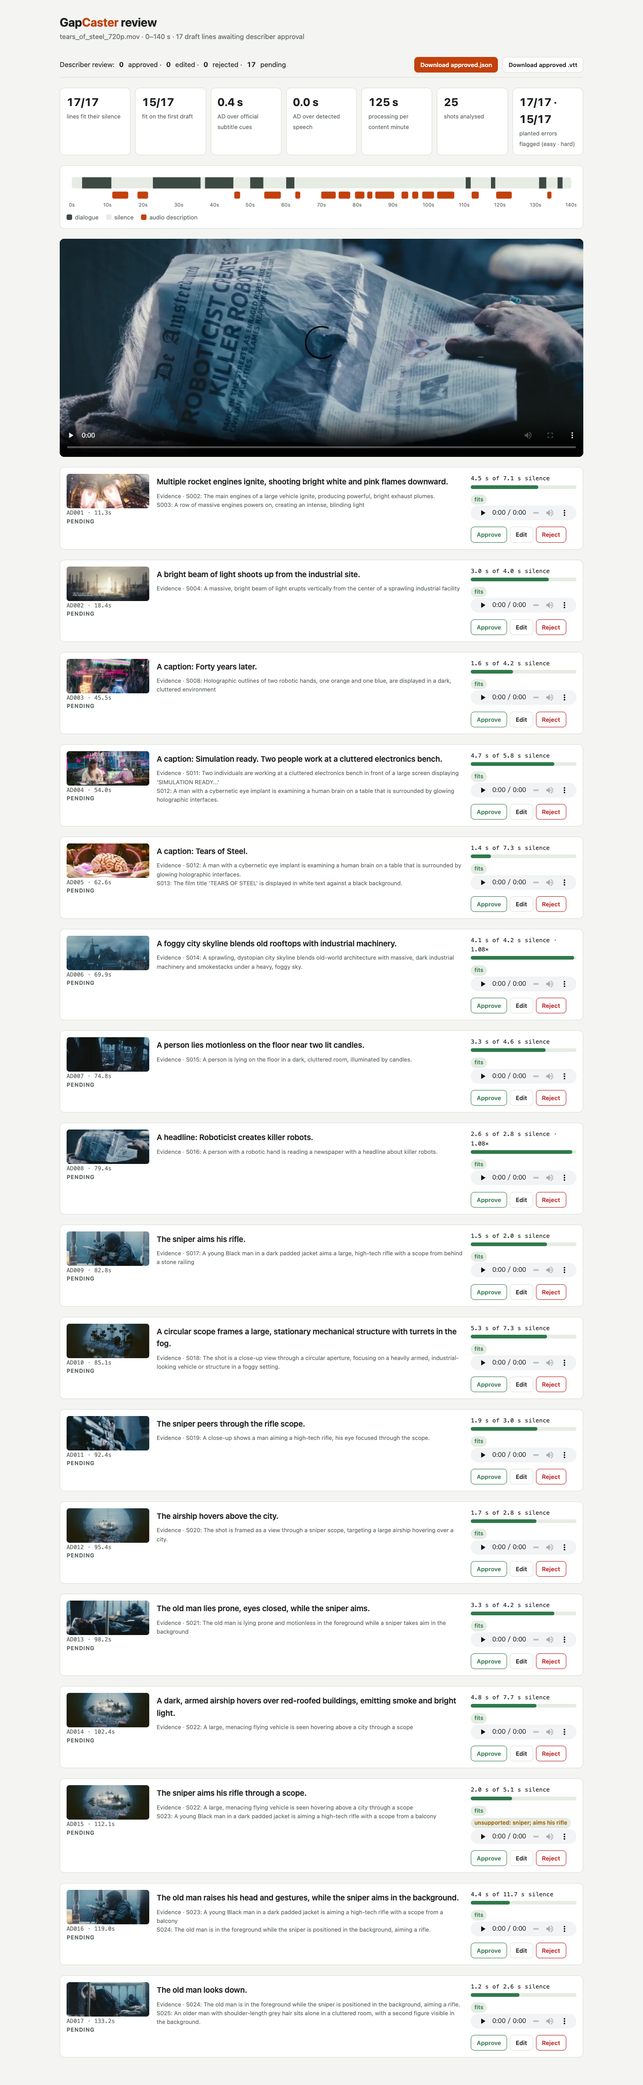
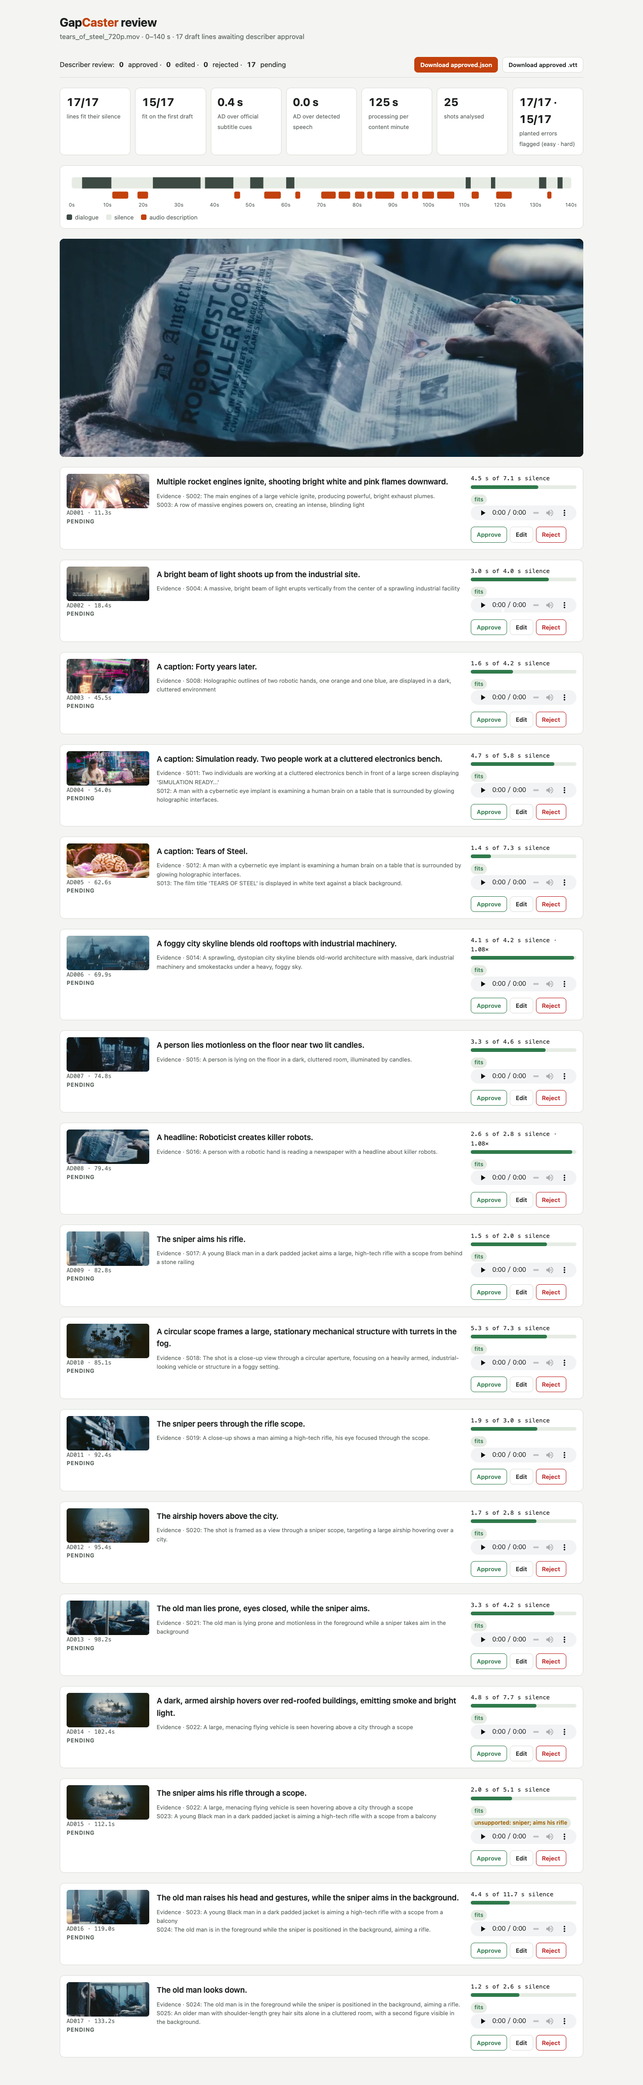
README: honest labels, install and fetch steps, known limitations, AI-assistance note
- results labelled in-sample and tied to tag stage1-results
- frame check labelled AI-assisted; verifier rows renamed; footnotes corrected
- quick start: hardware and disk needs, film and subtitle download, export command, XPU PyTorch
- credits: CC BY 3.0 licence link, score credit, espeak-ng note corrected
- hero image cropped to the review page header; review page rebuilt with the fixed UI

Changed region(s): [[0.0921, 0.1863, 0.7679, 0.2174]]

diff --git a/samples/tears-of-steel-0-140/review.html b/samples/tears-of-steel-0-140/review.html
@@ -36,7 +36,7 @@ button.ok{border-color:var(--ok);color:var(--ok)}button.no{border-color:#b91c1c;
 .state{font-size:12px;font-weight:700;text-transform:uppercase;letter-spacing:.06em;color:var(--muted)}
 .txt[contenteditable=true]{outline:2px dashed var(--ad);outline-offset:4px;border-radius:4px}
 @media (max-width:820px){.line{grid-template-columns:1fr}}
-</style><body data-run="tears_of_steel_720p.mov:0-140"><div class=wrap>
+</style><body data-run="tears_of_steel_720p.mov:0-140:12c44591be4f"><div class=wrap>
 <div><h1>Gap<span>Caster</span> review</h1><div class=sub>tears_of_steel_720p.mov · 0–140 s · 17 draft lines awaiting describer approval</div></div>
 <div class=bar2><span>Describer review:</span> <b id=n-approved>0</b> approved · <b id=n-edited>0</b> edited · <b id=n-rejected>0</b> rejected · <b id=n-pending>0</b> pending <span style="flex:1"></span><button class=primary id=dl-json>Download approved.json</button><button id=dl-vtt>Download approved .vtt</button></div>
 <div class=kpis><div class=kpi><b>17/17</b><small>lines fit their silence</small></div><div class=kpi><b>15/17</b><small>fit on the first draft</small></div><div class=kpi><b>0.4 s</b><small>AD over official subtitle cues</small></div><div class=kpi><b>0.0 s</b><small>AD over detected speech</small></div><div class=kpi><b>125 s</b><small>processing per content minute</small></div><div class=kpi><b>25</b><small>shots analysed</small></div><div class=kpi><b>17/17 · 15/17</b><small>planted errors flagged (easy · hard)</small></div></div>
@@ -101,14 +101,16 @@ function paint(){let c={approved:0,edited:0,rejected:0,pending:0};
  document.querySelectorAll('.line').forEach(el=>{const id=el.dataset.id,s=st[id];const state=s?s.status:'pending';el.dataset.state=state;
   el.querySelector('.state').textContent=state;if(s&&s.text)el.querySelector('.txt').textContent=s.text;c[state]++;});
  for(const k in c)document.getElementById('n-'+k).textContent=c[k];}
+function finishEdit(el){const t=el.querySelector('.txt');if(t.isContentEditable){t.contentEditable=false;el.querySelector('button[data-act=edit]').textContent='Edit';}return t.textContent.trim();}
 document.addEventListener('click',e=>{const b=e.target.closest('button[data-act]');if(!b)return;const el=b.closest('.line'),id=el.dataset.id,t=el.querySelector('.txt');
- if(b.dataset.act==='approve'){st[id]={status:'approved',text:t.textContent.trim()};}
- if(b.dataset.act==='reject'){st[id]={status:'rejected',text:t.textContent.trim()};}
+ if(b.dataset.act==='approve'){const nt=finishEdit(el);st[id]={status:nt===el.dataset.orig?'approved':'edited',text:nt};}
+ if(b.dataset.act==='reject'){st[id]={status:'rejected',text:finishEdit(el)};}
  if(b.dataset.act==='edit'){if(t.isContentEditable){t.contentEditable=false;b.textContent='Edit';const orig=el.dataset.orig;const nt=t.textContent.trim();st[id]={status:nt===orig?'approved':'edited',text:nt};}
   else{t.contentEditable=true;t.focus();b.textContent='Save';return;}}
  save();paint();});
 function download(name,data,type){const a=document.createElement('a');a.href=URL.createObjectURL(new Blob([data],{type}));a.download=name;a.click();}
-document.getElementById('dl-json').onclick=()=>{const lines=[...document.querySelectorAll('.line')].map(el=>({id:el.dataset.id,status:(st[el.dataset.id]||{}).status||'pending',text:(st[el.dataset.id]||{}).text||el.dataset.orig}));
+document.getElementById('dl-json').onclick=()=>{document.querySelectorAll('.line').forEach(el=>{if(el.querySelector('.txt').isContentEditable)el.querySelector('button[data-act=edit]').click();});
+ const lines=[...document.querySelectorAll('.line')].map(el=>({id:el.dataset.id,status:(st[el.dataset.id]||{}).status||'pending',original:el.dataset.orig,text:(st[el.dataset.id]||{}).text||el.dataset.orig}));
  download('approved.json',JSON.stringify({run:document.body.dataset.run,lines},null,1),'application/json');};
 document.getElementById('dl-vtt').onclick=()=>{let v='WEBVTT\nKind: descriptions\n\n';document.querySelectorAll('.line').forEach(el=>{const s=st[el.dataset.id];if(!s||s.status==='rejected'||s.status==='pending')return;
  v+=el.dataset.id+'\n'+el.dataset.a+' --> '+el.dataset.b+'\n'+s.text+'\n\n';});download('approved.vtt',v,'text/vtt');};

diff --git a/README.md b/README.md
@@ -2,15 +2,15 @@
 
 **Offline audio description that fits the silences.**
 
-GapCaster drafts an audio-description (AD) track for a finished video. It finds every silence between lines of dialogue, writes narration sized for each one, speaks it, measures it, and rewrites it until it fits. Every line comes with the evidence behind it, and a human describer approves the result. Everything runs locally on open models.
+GapCaster drafts an audio-description (AD) track for a finished video. It finds the silences between lines of dialogue, writes narration sized for each one, speaks it, measures it, and speeds it up slightly or rewrites it until it fits. Every line comes with the evidence behind it, and a human describer approves the result. Everything runs locally on open models.
 
-![GapCaster review page](docs/review.png)
+![GapCaster review page: KPIs and timeline](docs/review_top.png)
 
-Built for the **ASUS UGen AI League 2026** · Theme: Creator AI · Battlefield Thunderstorm. The Stage I prototype runs on a laptop; the Stage II target is one **ASUS UGen Intel Arc Pro B70 (32 GB)**.
+Built for the **ASUS UGen AI League 2026** · Theme: Creator AI · Battlefield Thunderstorm. The Stage I prototype runs on a laptop; the Stage II target is one **ASUS UGen Intel Arc Pro B70 (32 GB)**. Built by Ted Chen with AI coding assistance (Claude, Anthropic).
 
 ## Results (Stage I, laptop prototype)
 
-Measured on an Apple M5 Max laptop, not on a B70 yet. Demo content: *Tears of Steel* (Blender Foundation, CC BY 3.0).
+Measured on an Apple M5 Max laptop, not on a B70 yet. Demo content: *Tears of Steel* (Blender Foundation, CC BY 3.0). This film was also the development film: the prompts, filters and thresholds were tuned on it, so every number below is in-sample; a held-out film is a Stage II measurement. The numbers were produced by the code at tag [`stage1-results`](https://github.com/tedinroc/gapcaster/tree/stage1-results); later commits fix issues found in an audit (see Known limitations) and have not been re-measured yet.
 
 | Tears of Steel | 0:00–2:20 | Full film |
 |---|---:|---:|
@@ -20,19 +20,20 @@ Measured on an Apple M5 Max laptop, not on a B70 yet. Demo content: *Tears of St
 | …first draft · speed ladder · length rewrite · style rewrite | 15 · 2 · 0 · 0 | 60 · 2 · 5 · 3 |
 | **Narration over official subtitle cues¹** | **0.4 s** | **5.8 s** |
 | Narration over detected speech (internal check) | 0.0 s | 0.0 s |
-| **Manual frame check: accurate · minor · wrong²** | **13 · 4 · 0** | — |
-| Verifier: easy planted errors flagged³ | 17/17 | 40/40 |
-| Verifier: hard in-film errors flagged³ | 15/17 | 34/40 |
-| Verifier false alarms on clean lines | 1/17 | 5/40 |
+| **AI-assisted frame check: accurate · minor · wrong²** | **13 · 4 · 0** | — |
+| Verifier: obvious planted errors flagged³ | 17/17 | 40/40 |
+| Verifier: in-film word/character swaps flagged³ | 15/17 | 34/40 |
+| Verifier flags on unmodified lines⁵ | 1/17 | 5/40 |
 | Processing per content minute | 125 s | 137 s |
 | Peak model memory | 33 GB | 34 GB |
 
-¹ The film's official subtitles are an independent reference. Cues are rounded to whole or half seconds and stay on screen after a line ends, so most of the overlap sits at cue tails. In the full film about 1.4 s falls in cues where neither detector heard speech (short shouts under loud music).
-² Every excerpt line compared with the frame at its midpoint: [`eval/spotcheck_tears_of_steel_0-140.csv`](eval/spotcheck_tears_of_steel_0-140.csv).
-³ Easy: an absurd detail appended to a finished line, or a character swapped. Hard: a noun, verb or character borrowed from another shot of the same film, or the line written for a neighbouring silence. The verifier checks each line against the facts of the shots on screen while it plays; perception errors already in those facts are left to the cast sheet and the human reviewer.
-⁴ Every spoken line fits its silence. The one unplaced line in the full film reads an on-screen quote containing "we"; the first-person rule held it back for the describer (full-film script in [`samples/tears-of-steel-full`](samples/tears-of-steel-full)).
+¹ The film's official subtitles are an independent reference. Cues are rounded to whole or half seconds and stay on screen after a line ends, so part of the overlap sits at cue tails; in the full film about 1.4 s falls in cues where neither detector heard speech (short shouts under loud music), and one shout of about 0.8 s was only partly detected.
+² Each excerpt line was compared with the frame at its midpoint by the AI assistant, one frame per line: [`eval/spotcheck_tears_of_steel_0-140.csv`](eval/spotcheck_tears_of_steel_0-140.csv). Human describer review is part of Stage II.
+³ Obvious: an absurd detail appended to a finished line, or a character swapped. In-film: a noun, verb or character borrowed from another shot of the same film, or the line written for a neighbouring silence. The substitutes never appear in the shot facts, so these are still easier than real perception errors. The verifier checks each line against the facts of the shots on screen while it plays; perception errors already in those facts are left to the cast sheet and the human reviewer. The full-film rows cover the first 40 placed lines.
+⁴ Every spoken line fits its silence. The one unplaced line in the full film read an on-screen quote containing "we", and the first-person rule wrongly held it back (a false positive since fixed: on-screen text read verbatim is now exempt).
+⁵ The verifier's own flags on lines nobody corrupted. They are not all false alarms: the excerpt's single flag (AD015) is a real minor error in the frame check.
 
-Sample outputs from the 140-second run are in [`samples/tears-of-steel-0-140`](samples/tears-of-steel-0-140): the description script ([`ad_script.txt`](samples/tears-of-steel-0-140/ad_script.txt)), a WebVTT `kind="descriptions"` track, SRT, the full JSON script with provenance, and the review page.
+Sample outputs from the 140-second run are in [`samples/tears-of-steel-0-140`](samples/tears-of-steel-0-140): the description script ([`ad_script.txt`](samples/tears-of-steel-0-140/ad_script.txt)), a WebVTT `kind="descriptions"` track, SRT, the full JSON script with provenance, the review page ([`review.html`](samples/tears-of-steel-0-140/review.html), full screenshot [`docs/review.png`](docs/review.png)) and the mixed clip. The full film's script is in [`samples/tears-of-steel-full`](samples/tears-of-steel-full).
 
 ## How it works
 
@@ -45,51 +46,72 @@ flowchart LR
   D --> G
   S --> F[Vision-language model<br/>shot facts as JSON]
   C[Cast sheet<br/>from the describer] --> F
-  G --> W[Writer<br/>one line per silence]
+  G --> W[Writer<br/>narration per silence]
   F --> W
   W --> L{Gap-fit loop<br/>speak, measure, rewrite}
   L --> Q[Style gate<br/>and verifier]
-  Q --> M[Mixer<br/>sidechain ducking]
+  Q --> M[Mixer<br/>soundtrack ducked under the voice]
   M --> O[AD track, WebVTT, SRT,<br/>JSON script, review page]
   O --> H[Describer approves]
 ```
 
-1. **Map the silences.** Two independent detectors: Whisper word timestamps (low-confidence shouts are kept; only known Whisper artefacts such as repetition loops are dropped) and Silero VAD. A moment counts as dialogue if either hears speech; pauses under 0.6 s stay inside a span. A silence is usable from 0.25 s after a line ends to 0.30 s before the next starts. Long silences are split at shot cuts.
-2. **Read every shot.** A vision-language model returns JSON facts for each shot: who, where, action, on-screen text, the key visual fact and a confidence score. A short cast sheet written by the describer keeps names consistent; each entry can carry a `named_from` time, and before it the person is described by look, as AD guidelines advise.
-3. **Write to budget.** One line per silence, with a word budget of ⌊silence × 2.6 words/s⌋ (3 to 18 words). The writer sees only the shots on screen during the silence. Unread story text (title cards, headlines), including text from the shot that just cut away, is queued and must be read; credits and logos never are.
+1. **Map the silences.** Two independent detectors: Whisper word timestamps (low-confidence shouts are kept; only known Whisper artefacts such as repetition loops are dropped) and Silero VAD. A moment counts as dialogue if either hears speech; pauses under 0.6 s stay inside a span. A silence is usable from 0.25 s after a line ends to 0.30 s before the next starts. Long silences are split at shot cuts, and a silence can stay empty when nothing new is on screen, as AD guidelines advise.
+2. **Read every shot.** A vision-language model returns JSON facts for each shot: who, where, action, on-screen text, the key visual fact and a confidence score. A short cast sheet written by the describer keeps names consistent; each entry can carry a `named_from` time, and before it the person is described by look.
+3. **Write to budget.** Narration for each window, with a word budget of ⌊window × 2.6 words/s⌋ (3 to 18 words). Unread story text (title cards, headlines), including text from the shot that just cut away, is queued for the writer, and a draft that ignores it gets one forced rewrite. A pattern list keeps studio cards, credits and web addresses out of the narration.
 4. **Gap-fit loop.** Kokoro TTS speaks the line and the trimmed audio gives its real duration. If it overflows, the line is tried at 1.08× and 1.15× speed, then the writer is told the exact overflow and asked for a shorter line (up to three rounds).
-5. **Style gate.** Deterministic rules from professional AD practice block camera language ("we see"), speculation ("seems", "maybe") and first person, and flag inner-state or evaluative words. Lines that repeat the last two are dropped.
-6. **Verify, review, mix.** A verifier checks each line against the facts of the shots on screen while it plays and flags unsupported claims. ffmpeg mixes the narration over the programme with sidechain ducking. On the review page the describer approves, edits or rejects each line; `gapcaster export --approved approved.json` re-mixes only approved lines and re-times edited ones.
+5. **Style gate.** Deterministic rules from professional AD practice block camera language ("we see"), speculation ("seems", "maybe") and first person, and flag inner-state words, evaluative words and similes. On-screen text read verbatim is exempt. Lines that repeat the last two are dropped.
+6. **Verify, review, mix.** A verifier checks each line against the facts of the shots on screen while it plays and flags unsupported claims (no verdict is also flagged). ffmpeg mixes the narration in, with the soundtrack ducked under the voice. On the review page the describer approves, edits or rejects each line; `gapcaster export <run_dir> --approved approved.json` re-mixes only approved lines and re-times edited ones.
+
+A real case from the 140-second run (`AD008`, silence of 2.75 s, budget 7 words): *A headline: Roboticist creates killer robots.* is 2.78 s at normal speed, so it is tried at 1.08× and fits at 2.64 s.
+
+And the style gate at work in the full film (`AD001`): *A caption: Blender Foundation Presents.* is blocked (credits) and redrafted as *White text on black background.* (1.66 s, fits).
 
 ## Quick start
 
-Requirements: Python 3.11+, `ffmpeg` on PATH. The Stage I backend needs Apple Silicon (MLX).
+Requirements: an Apple Silicon Mac with at least 48 GB of unified memory (64 GB recommended; peak use is about 34 GB), about 35 GB of free disk (the first run downloads about 31 GB of models), Python 3.11–3.13, [uv](https://docs.astral.sh/uv/) and `ffmpeg` on PATH. You can inspect the sample outputs without any models: open `samples/tears-of-steel-0-140/review.html`.
 
 ```bash
 uv venv --python 3.11 && source .venv/bin/activate
 uv pip install -e ".[mac]"
 
-gapcaster run film.mp4 --out runs/demo --cast configs/cast_tears_of_steel.yaml \
-  --start 0 --end 140 --ref-srt subtitles.srt --inject 20
+# the demo film and its official subtitles (subtitles are used only for evaluation)
+curl -LO https://download.blender.org/demo/movies/ToS/tears_of_steel_720p.mov
+curl -LO https://download.blender.org/demo/movies/ToS/subtitles/TOS-en.srt
+
+gapcaster run tears_of_steel_720p.mov --out runs/demo --cast configs/cast_tears_of_steel.yaml \
+  --start 0 --end 140 --ref-srt TOS-en.srt --inject 20
 open runs/demo/review.html
+# after reviewing, download approved.json from the page, then:
+gapcaster export runs/demo --approved approved.json
 ```
 
-Each stage can switch runtime. For an Intel Arc Pro B70 (or any machine without Apple Silicon):
+Each stage can switch runtime. For an Intel Arc Pro B70 on Linux, install the XPU build of PyTorch first so Kokoro can use the card:
 
 ```bash
+uv pip install torch --index-url https://download.pytorch.org/whl/xpu
 uv pip install -e ".[intel]"
 # vLLM / Intel llm-scaler serving the model as "qwen" (--served-model-name qwen)
-gapcaster run film.mp4 --out runs/b70 --backend openai --base-url http://<server>:8000/v1 --model qwen \
+gapcaster run tears_of_steel_720p.mov --out runs/b70 --backend openai --base-url http://<server>:8000/v1 --model qwen \
   --concurrency 8 --asr openvino --asr-device GPU --tts kokoro
 ```
 
+On Linux, OpenCV (pulled in by PySceneDetect) needs `libgl1`.
+
 | Stage | `mlx` (Stage I laptop) | Portable runtime | Status of the portable runtime |
 |---|---|---|---|
-| Vision-language model | mlx-vlm, in-process | any OpenAI-compatible server (`--backend openai`, `--concurrency`) | client implemented; Stage II validation on the B70 |
-| Speech recognition | mlx-whisper | OpenVINO GenAI WhisperPipeline (`--asr openvino`, CPU or GPU) | runs on a laptop CPU: dialogue map IoU 0.835 against MLX |
+| Vision-language model | mlx-vlm, in-process | any OpenAI-compatible server (`--backend openai`, `--concurrency`) | client implemented and run against a local stand-in; Stage II validation on the B70 |
+| Speech recognition | mlx-whisper | OpenVINO GenAI WhisperPipeline (`--asr openvino`, CPU or GPU) | runs on a laptop CPU: dialogue map IoU 0.835 against MLX (both include the shared VAD spans; speech-recognition-only IoU 0.77) |
 | Text-to-speech | mlx-audio Kokoro | PyTorch Kokoro (`--tts kokoro`, CPU or XPU) | runs on a laptop CPU: line durations within 33 ms of MLX |
 
-`python eval/parity.py runs/<run>` reproduces the speech-path comparison. The whole portable path has also run end to end on a laptop: `--backend openai --concurrency 4` against the local test server in `eval/local_server.py`, with `--asr openvino --tts kokoro`, on a 50-second window (7/7 lines fit; [`samples/portable-path-e2e-metrics.json`](samples/portable-path-e2e-metrics.json)). Set `GAPCASTER_VLM` to use a model folder that is already on disk.
+The whole portable path has also run end to end on a laptop: `--backend openai --concurrency 4` against the local stand-in server in `eval/local_server.py` (it serves one request at a time; it checks the code path, not throughput), with `--asr openvino --tts kokoro`, on a 50-second window (7/7 lines fit; [`samples/portable-path-e2e-metrics.json`](samples/portable-path-e2e-metrics.json)). Set `GAPCASTER_VLM` to use a model folder that is already on disk.
+
+Tests and checks:
+
+```bash
+uv pip install -e ".[dev]" && pytest -q                 # unit tests; no models needed
+uv pip install -e ".[mac,intel]"                         # Apple Silicon, both runtimes
+python eval/parity.py runs/demo                          # MLX vs OpenVINO/PyTorch speech path
+```
 
 ## Outputs
 
@@ -101,7 +123,15 @@ gapcaster run film.mp4 --out runs/b70 --backend openai --base-url http://<server
 | `ad.srt`, `ad_script.txt` | Script with timings |
 | `script.json` | Everything: shots and their facts, dialogue map, silences, every draft, timings, flags, metrics |
 | `review.html` | Review page: evidence per line; Approve, Edit, Reject; download `approved.json` and an approved WebVTT |
-| `approved/` | After `gapcaster export --approved`: the re-mixed programme and tracks with only approved lines |
+| `approved/` | After `gapcaster export`: the re-mixed programme and tracks with only approved lines |
+
+## Known limitations
+
+- The writer sees every shot in its silence, but a short line may finish before a later shot appears; in the full film 10 of 70 lines were written partly from such shots, and these account for about half the verifier's flags. Stage II rewrites a line from only the shots on screen while it plays.
+- The text gate forces one rewrite; a later shortening for time can still drop the text (two cases in the full film).
+- End-credit rolls slipped through the credits pattern in the full-film run; the pattern has since been extended.
+- English only; Traditional Chinese narration is planned.
+- Timings were measured on a laptop that was also running other jobs; Stage II re-times on an idle machine.
 
 ## Stage II: one ASUS UGen Intel Arc Pro B70
 
@@ -118,9 +148,9 @@ The orchestrator stays the same; the models move to the card.
 
 Planned residency on one 32 GB card (estimate, to be measured): Qwen3.8-27B INT4 with FP8 KV cache, vLLM capped at 0.72 (≈ 23 GB) · Whisper large-v3-turbo (≈ 2.5 GB) · Kokoro-82M (≤ 1 GB) · runtime contexts (≈ 2 GB) → **≈ 28.5 GB**. Intel's published Qwen3.8-27B recipe uses two GPUs, so single-card INT4 with image input is a Stage II experiment; the fallback puts shot facts on Qwen3-VL-8B or 30B-A3B (both in llm-scaler's vision-language list).
 
-Three ways to deploy one card: an **overnight queue** (full card, shot facts batched through vLLM), **describer seats** (the B70 supports up to 4 SR-IOV virtual GPUs; each runs a lean ≈ 7 GB profile of Qwen3-VL-8B INT4 + Whisper INT8 for interactive redrafts), and a **two-card studio** (64 GB, parallel language tracks).
+Three ways to deploy one card: an **overnight queue** (full card, shot facts batched through vLLM), **describer seats** (the B70 supports up to 4 SR-IOV virtual GPUs; each could run a lean ≈ 7 GB profile of Qwen3-VL-8B INT4 + Whisper INT8 for interactive redrafts, if VRAM splits evenly, which Intel does not publish), and a **two-card studio** (64 GB, parallel language tracks).
 
-Stage II measurements: processing time per content minute, throughput against concurrency, peak VRAM, energy per content minute, describer edit time against writing from scratch, and ratings from blind and low-vision listeners.
+Stage II measurements: processing time per content minute, throughput against concurrency, peak VRAM, energy per content minute, and small pilots of describer edit time and blind and low-vision listener ratings.
 
 ## Project layout
 
@@ -129,7 +159,7 @@ gapcaster/      pipeline: media, scenes, gapmap (Whisper MLX/OpenVINO + VAD), ll
                 backends), tts (MLX/PyTorch), prompts, styleguard, inject, pipeline, export,
                 review, approve, cli
 eval/           parity check for the portable speech path; local OpenAI-compatible test server;
-                manual frame spot-check
+                AI-assisted frame check
 configs/        cast sheet for the demo film
 samples/        outputs of the 140-second demo run; full-film script and metrics;
                 portable-path metrics
@@ -138,7 +168,7 @@ tests/          unit tests (pytest)
 
 ## Credits and licences
 
-- Code: MIT, © 2026 Ted Chen.
-- Demo footage and frames: *Tears of Steel* © Blender Foundation | mango.blender.org, licensed CC BY 3.0. `samples/tears-of-steel-0-140/clip_with_ad.mp4` is an excerpt (0:00–2:20) with GapCaster's synthetic description track mixed in; it is a modified work and is not endorsed by the Blender Foundation. Official subtitles are used only for evaluation.
+- Code: MIT, © 2026 Ted Chen. Developed with AI coding assistance (Claude, Anthropic).
+- Demo footage and frames: *Tears of Steel* © Blender Foundation | mango.blender.org, licensed [CC BY 3.0](https://creativecommons.org/licenses/by/3.0/). `samples/tears-of-steel-0-140/clip_with_ad.mp4` is an excerpt (0:00–2:20) with GapCaster's synthetic description track mixed in; it is a modified work and is not endorsed by the Blender Foundation. Score by Joram Letwory (www.tearsofsteel.org), heard as part of the CC BY 3.0 film; the separately released soundtrack files are CC BY-ND 3.0 and are not used. Official subtitles are used only for evaluation.
 - Models: Qwen3.8-27B (Apache-2.0), Whisper large-v3-turbo (MIT), Silero VAD (MIT), Kokoro-82M (Apache-2.0). Voices are synthetic stock voices; no voice cloning.
-- Libraries include MLX, mlx-vlm, mlx-audio, OpenVINO GenAI, PyTorch (BSD-3-Clause), PySceneDetect and spaCy. Kokoro's English G2P can fall back to espeak-ng (GPL-3.0), installed separately; ffmpeg is called as a subprocess.
+- Libraries include MLX, mlx-vlm, mlx-audio, OpenVINO GenAI, PyTorch (BSD-3-Clause), PySceneDetect and spaCy. Kokoro's English G2P falls back to espeak-ng (GPL-3.0) for out-of-vocabulary words; the library comes in the espeakng-loader wheel that misaki[en] installs, is loaded at runtime, and is not redistributed by this repo. ffmpeg is called as a subprocess.
